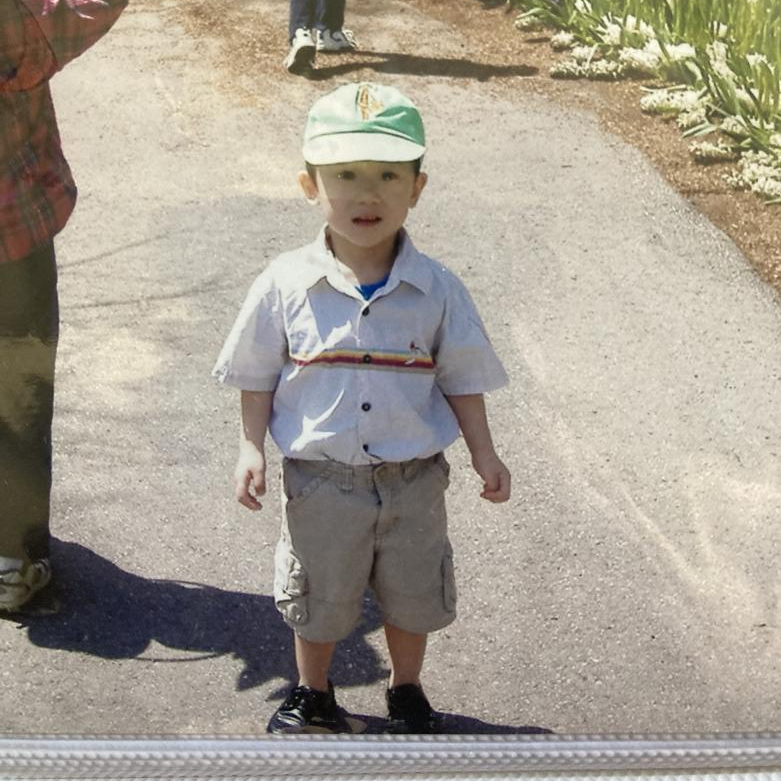
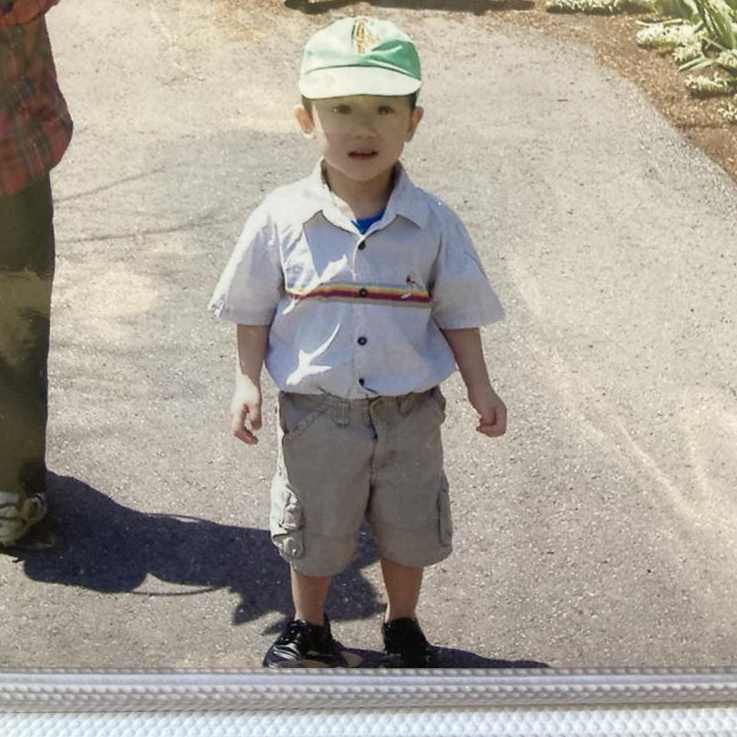
attempting to crop baby photo

diff --git a/index.html b/index.html
@@ -37,7 +37,7 @@
         <section id="about-section">
             <div class="about" id="about-div">
                 <div id="about-img">
-                    <img src="Images/baby.jpeg">
+                    <img src="Images/baby.png">
                 </div>
                 <h1>Liao Zhu</h1>
                 <p id="description">Uiowa '25, B.S. Comp Sci Honor Student</p>
